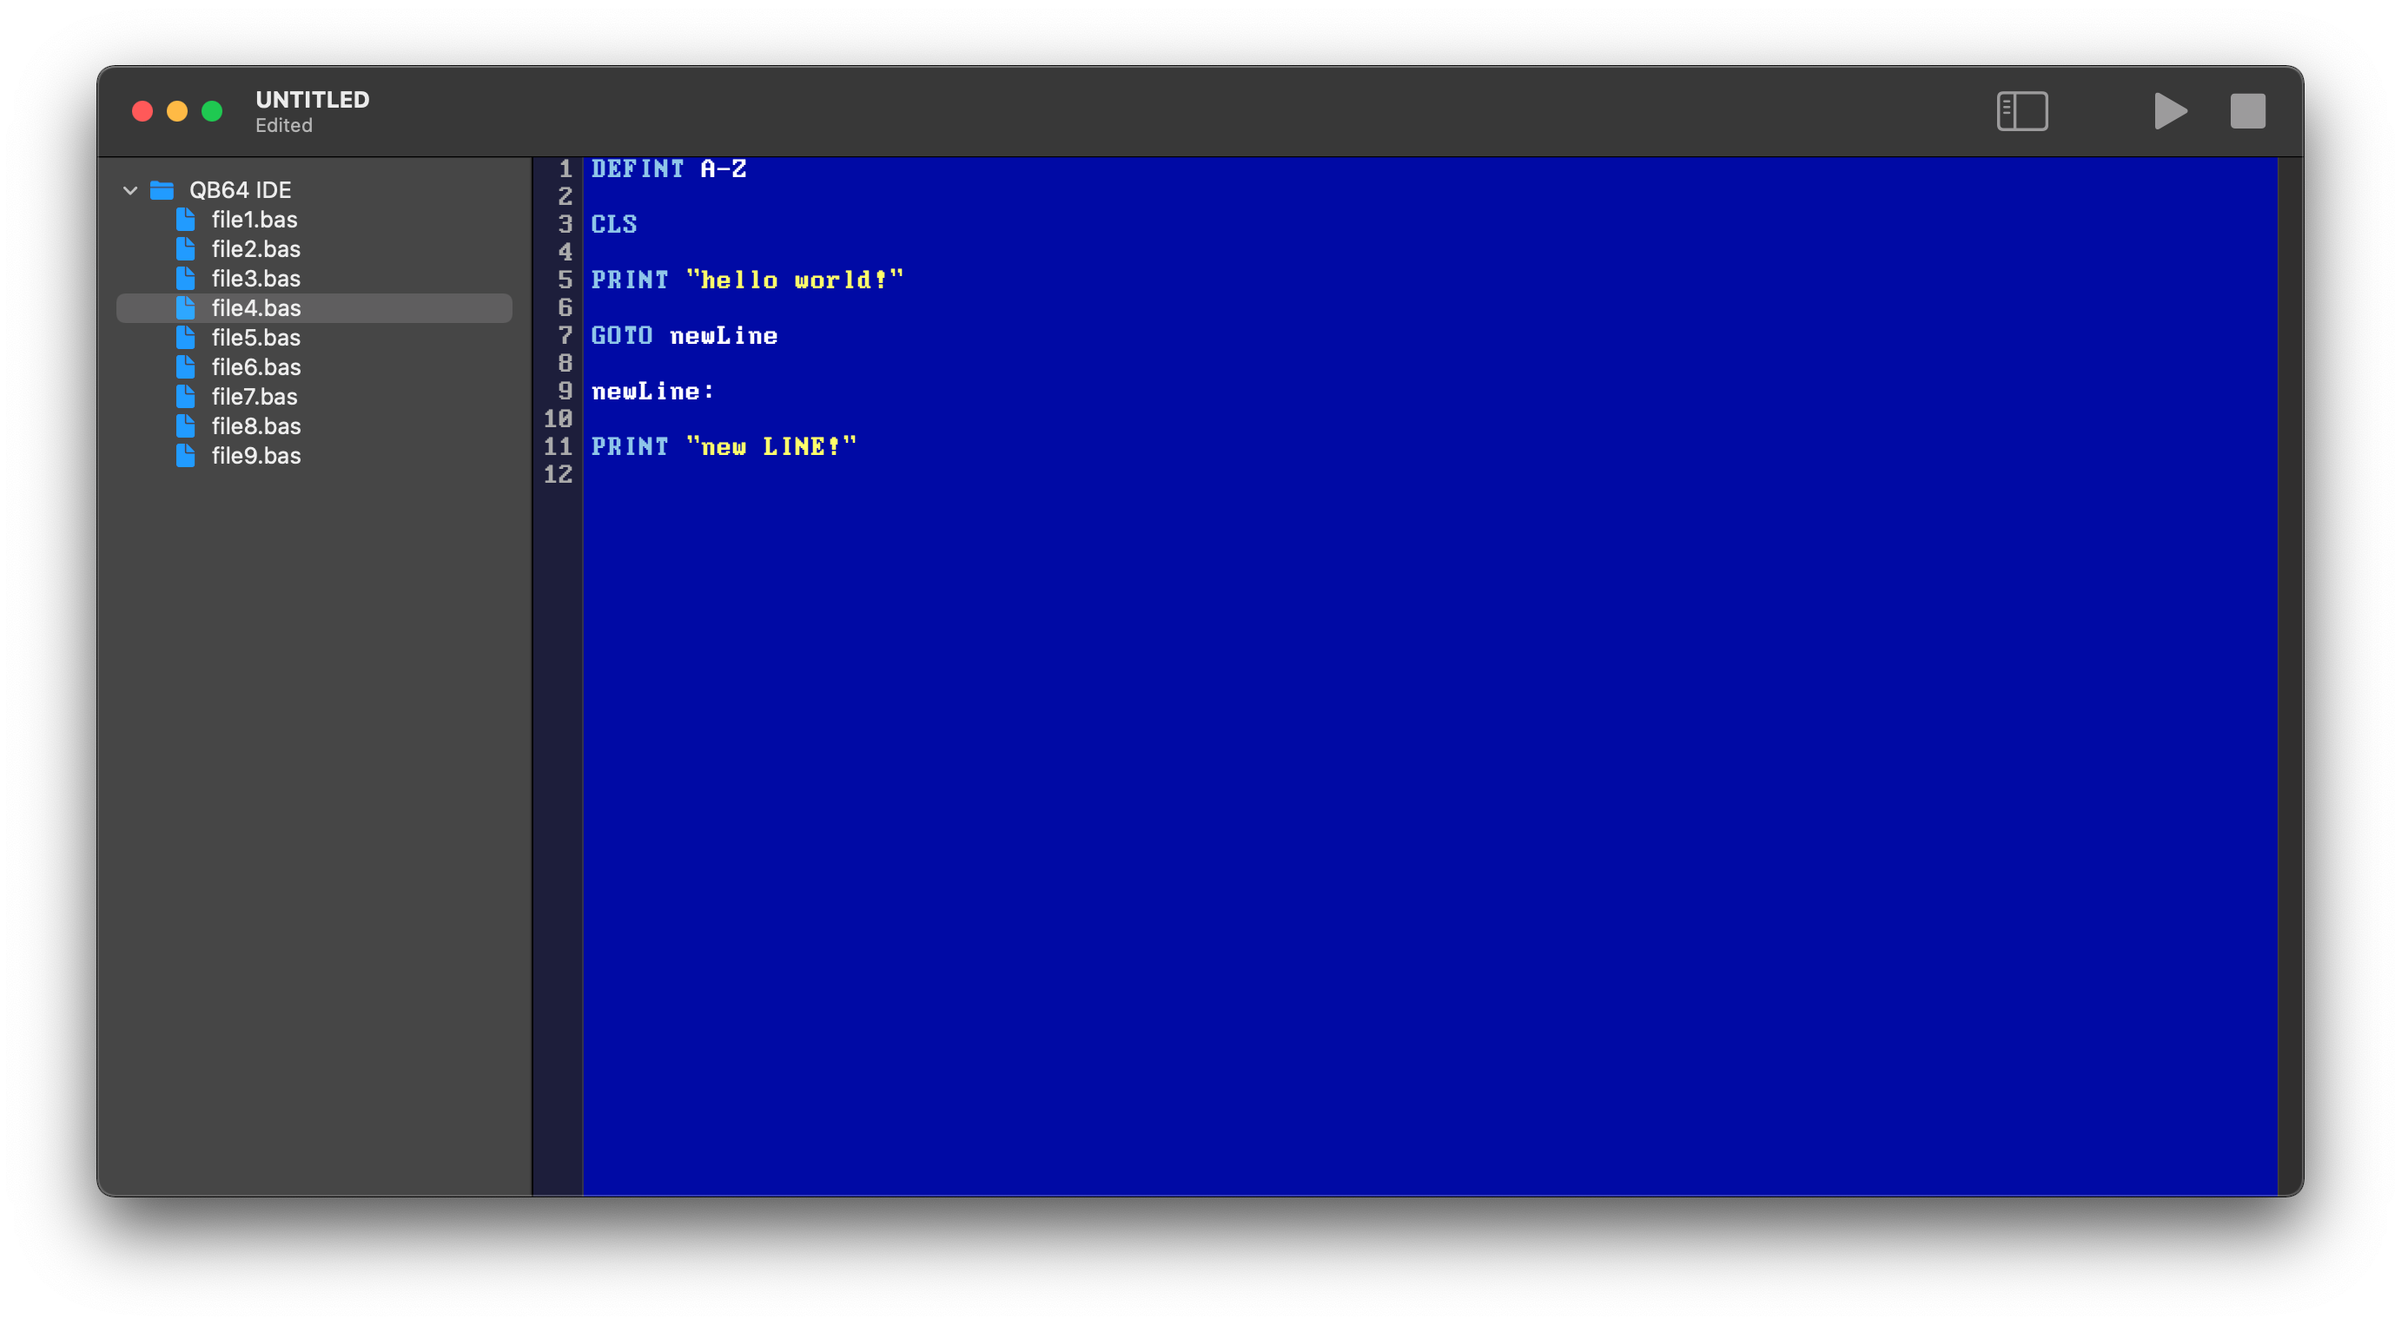
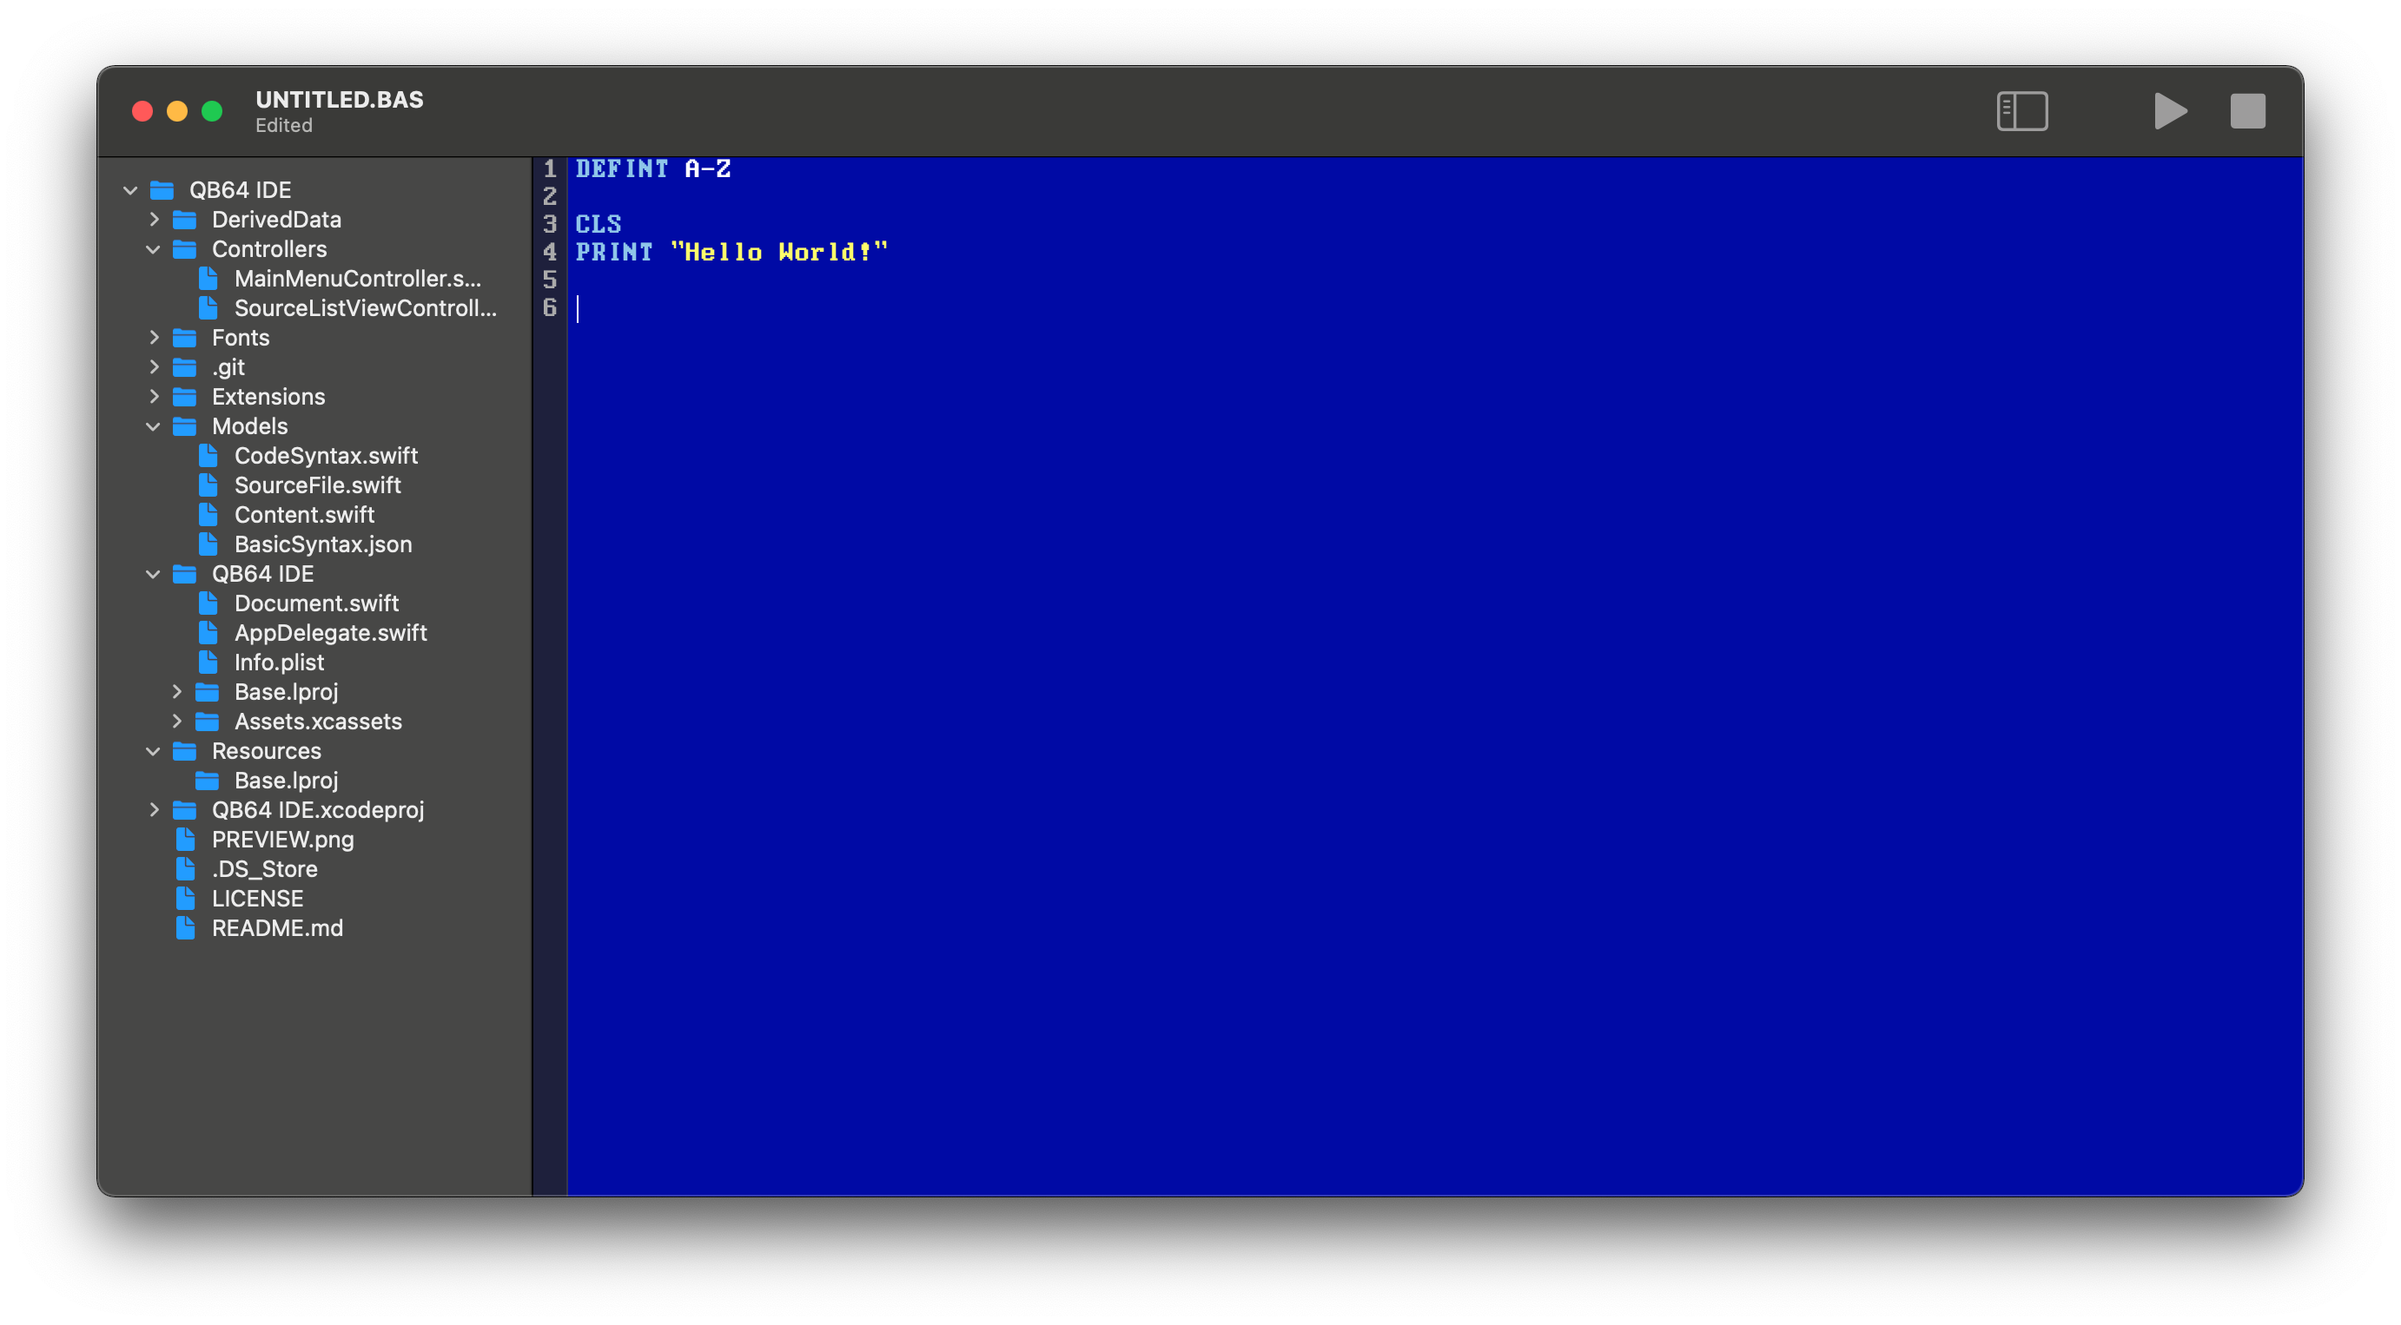
Load folder contents now. Improved way of code syntax coloring

Changed region(s): [[0.0311, 0.1232, 0.3734, 0.8932], [0.9334, 0.1232, 0.9645, 0.8932], [0.1556, 0.0616, 0.1867, 0.0924]]

diff --git a/Extensions/DocumentExtensions.swift b/Extensions/DocumentExtensions.swift
@@ -7,7 +7,7 @@
 import Cocoa
 import Foundation
 
-extension Document: NSTextStorageDelegate, NSWindowDelegate {
+extension Document: NSWindowDelegate, NSTextViewDelegate, NSTextStorageDelegate {
   
   // MARK: - Window Delegates
   func windowWillResize(_ sender: NSWindow, to frameSize: NSSize) -> NSSize {
@@ -24,45 +24,65 @@ extension Document: NSTextStorageDelegate, NSWindowDelegate {
     }
   }
   
-  // MARK: - TextStorage Delegates
-  func textStorage(_ textStorage: NSTextStorage, didProcessEditing editedMask: NSTextStorageEditActions, range editedRange: NSRange, changeInLength delta: Int) {
-    if delta != 0 && editedMask.rawValue > 1 {
-      guard let filepath = Bundle.main.path(forResource: "BasicSyntax", ofType: "json") else { return }
-      guard let contents = try? String(contentsOfFile: filepath).data(using: .utf8) else { return }
-      guard let syntax = try? JSONDecoder().decode(CodeSyntax.self, from: contents) else { return }
+  // MARK: - TextStorage & TextView Delegates
+  func textView(_ textView: NSTextView, shouldChangeTextIn affectedCharRange: NSRange, replacementString: String?) -> Bool {
+    if (replacementString == "\n") {
+      self.isApplyingStyles = true
       
-      var extended = NSUnionRange(editedRange, NSString(string: mainEditor.string).lineRange(for: NSMakeRange(editedRange.location, 0)))
-      extended = NSUnionRange(editedRange, NSString(string: mainEditor.string).lineRange(for: NSMakeRange(NSMaxRange(editedRange), 0)))
+      self.applyStyles(textView, affectedCharRange)
       
-      for setting in syntax.settings {
-        //-
-        let regex = try! NSRegularExpression.init(pattern: setting.exp, options: [.anchorsMatchLines, .caseInsensitive])
-        regex.enumerateMatches(in: textStorage.string, options: [], range: extended) { (match, flags, stop) in
-          //-
-          //- Define text attributes
-          let matchColor = [NSAttributedString.Key.foregroundColor : NSColor(hexString: setting.color)!]
-          //-
-          //- Identify where in document the match was found (index, length)
-          let matchRange = match!.range(at: 1)
-          applyStyles(textStorage, matchColor, matchRange, setting.upper)
-          //-
-          //- Now go and lookup for all other coincidences
-          let maxRange = matchRange.location + matchRange.length
-          if ((maxRange + 1) < textStorage.length) {
-            applyStyles(textStorage, matchColor, NSMakeRange(maxRange, 0), setting.upper)
-          }
-        }
-        //-
-      }
-      
-      if (isLoading) {
-        self.isLoading = false
-      } else {
-        self.updateChangeCount(.changeDone)
-      }
+      self.isApplyingStyles = false
     }
     
-    self.contents.contentString = textStorage.string
+    return true //- always true, so the text is printed in textview
+  }
+  
+  func textView(_ textView: NSTextView, doCommandBy commandSelector: Selector) -> Bool {
+    let arr:[Selector] = [#selector(NSStandardKeyBindingResponding.moveUp(_:)), #selector(NSStandardKeyBindingResponding.moveDown(_:))]
+    
+    if arr.firstIndex(of: commandSelector) != nil {
+      self.applyStyles(textView, NSRange(location: 0, length: textView.string.count))
+    }
+    
+    return false //- always false, so the cursor can change in text content
+  }
+  
+  func applyStyles(_ textView:NSTextView, _ range: NSRange) {
+    
+    var extended = NSUnionRange(range, NSString(string: mainEditor.string).lineRange(for: NSMakeRange(range.location, 0)))
+    extended = NSUnionRange(range, NSString(string: mainEditor.string).lineRange(for: NSMakeRange(NSMaxRange(range), 0)))
+    
+    for setting in self.syntaxs.settings {
+      //-
+      let regex = try! NSRegularExpression.init(pattern: setting.exp, options: [.anchorsMatchLines, .caseInsensitive])
+      regex.enumerateMatches(in: textView.string, options: [], range: extended) { (match, flags, stop) in
+        //-
+        //- Define text attributes
+        let matchColor = [NSAttributedString.Key.foregroundColor : NSColor(hexString: setting.color)!]
+        //-
+        //- Identify where in document the match was found (index, length)
+        let matchRange = match!.range(at: 1)
+        applyStyles(textView.textStorage!, matchColor, matchRange, setting.upper)
+        //-
+        //- Now go and lookup for all other coincidences
+        let maxRange = matchRange.location + matchRange.length
+        if ((maxRange + 1) < textView.textStorage!.length) {
+          applyStyles(textView.textStorage!, matchColor, NSMakeRange(maxRange, 0), setting.upper)
+        }
+      }
+      //-
+    }
+    
+    self.contents.contentString = textView.textStorage!.string
+    self.updateChangeCount(.changeDone) //- tell document/window that there is changes!
+  }
+  
+  func textStorage(_ textStorage: NSTextStorage, didProcessEditing editedMask: NSTextStorageEditActions, range editedRange: NSRange, changeInLength delta: Int) {
+    
+    if ((editedMask.rawValue < 3) && !self.isApplyingStyles) {
+      self.applyStyles(mainEditor, editedRange)
+    }
+    
   }
   
   private func applyStyles(_ textStorage: NSTextStorage, _ attrs: [NSAttributedString.Key : Any], _ range: NSRange, _ upper: Bool = false) {
@@ -74,7 +94,7 @@ extension Document: NSTextStorageDelegate, NSWindowDelegate {
   
   // MARK: - Actions
   @IBAction func btnRunClick(_ sender: Any) {
-    NSApp.sendAction(#selector(AppDelegate.runApp(_:)), to: nil, from: self)
+    NSApp.sendAction(#selector(AppDelegate.willRunApp(_:)), to: nil, from: self)
   }
   
   @IBAction func btnStopClick(_ sender: Any) {
@@ -116,7 +136,7 @@ extension Document: NSTextStorageDelegate, NSWindowDelegate {
     mainEditor.isAutomaticQuoteSubstitutionEnabled = false
     mainEditor.isAutomaticSpellingCorrectionEnabled = false
     
-    mainEditor.textStorage?.delegate = self
+    mainEditor.textStorage!.delegate = self
     
     let lines = String(contents.contentString.components(separatedBy: "\n").count) as NSString
     let size = lines.size(withAttributes: [NSAttributedString.Key.font: mainEditor.font!])

diff --git a/Controllers/SourceListViewController.swift b/Controllers/SourceListViewController.swift
@@ -9,25 +9,18 @@ import Foundation
 
 class SourceListViewController: NSObject, NSOutlineViewDelegate, NSOutlineViewDataSource {
   
-  var rootFolder: [BaseElement?];
+  var rootFolder: [SourceFile?];
   @IBOutlet weak var sourceListView:NSOutlineView?
   
   override init() {
-    let rootFolder = SourceFolder("/Users/familygw/Projects/QB64 IDE");
-    rootFolder.childs.append(SourceFile("/Users/familygw/Projects/QB64 IDE/file1.bas"))
-    rootFolder.childs.append(SourceFile("/Users/familygw/Projects/QB64 IDE/file2.bas"))
-    rootFolder.childs.append(SourceFile("/Users/familygw/Projects/QB64 IDE/file3.bas"))
-    rootFolder.childs.append(SourceFile("/Users/familygw/Projects/QB64 IDE/file4.bas"))
-    rootFolder.childs.append(SourceFile("/Users/familygw/Projects/QB64 IDE/file5.bas"))
-    rootFolder.childs.append(SourceFile("/Users/familygw/Projects/QB64 IDE/file6.bas"))
-    rootFolder.childs.append(SourceFile("/Users/familygw/Projects/QB64 IDE/file7.bas"))
-    rootFolder.childs.append(SourceFile("/Users/familygw/Projects/QB64 IDE/file8.bas"))
-    rootFolder.childs.append(SourceFile("/Users/familygw/Projects/QB64 IDE/file9.bas"))
+    self.rootFolder = [];
+  }
+  
+  @objc func loadDirectories(_ sender: Any?) {
+    // TODO: handle a better way to gent the folder content (lazy load?)
+    let folder = try! FileManager.default.url(for: .documentDirectory, in: .userDomainMask, appropriateFor: nil, create: false)
     
-    self.rootFolder = [rootFolder]
-    
-    self.sourceListView?.expandItem(nil, expandChildren: true)
-    
+    self.rootFolder = [SourceFile.buildNode(folder)]
     self.sourceListView?.reloadData()
   }
   
@@ -40,11 +33,11 @@ class SourceListViewController: NSObject, NSOutlineViewDelegate, NSOutlineViewDa
     }
     
     // Develop time (debug) - check that the item is really Item
-    assert(item is BaseElement);
+    assert(item is SourceFile);
     
     // item != nil
     // We're being asked for the number of children of an item
-    return (item as! BaseElement).childs.count
+    return (item as! SourceFile).childs.count
   }
   
   func outlineView(_ outlineView: NSOutlineView, child index: Int, ofItem item: Any?) -> Any {
@@ -55,23 +48,24 @@ class SourceListViewController: NSObject, NSOutlineViewDelegate, NSOutlineViewDa
     }
     
     // Develop time (debug) - check that the item is really Item
-    assert(item is BaseElement);
+    assert(item is SourceFile);
     
     // item != nil
     // We're being asked for n-th (index) child of an item
-    return (item as! BaseElement).childs[index]
+    return (item as! SourceFile).childs[index]
   }
   
   func outlineView(_ outlineView: NSOutlineView, isItemExpandable item: Any) -> Bool {
     // Item is expandable only if it has children
-    return (item as? BaseElement)?.childs.count ?? 0 > 0
+    return (item as? SourceFile)?.childs.count ?? 0 > 0
   }
   
   // MARK: - Delegates
   func outlineView(_ outlineView: NSOutlineView, viewFor tableColumn: NSTableColumn?, item: Any) -> NSView? {
     let cellView = outlineView.makeView(withIdentifier: NSUserInterfaceItemIdentifier("DataCell"), owner: self) as? NSTableCellView
-    cellView?.textField?.stringValue = (item as! BaseElement).name
-    cellView?.imageView?.image = (item as! BaseElement).icon
+    cellView?.textField?.stringValue = (item as! SourceFile).name
+    cellView?.imageView?.image = (item as! SourceFile).icon
+    cellView?.imageView?.image?.backgroundColor = NSColor(hexString: "#fff")!
 
     return cellView
   }

diff --git a/QB64 IDE/Document.swift b/QB64 IDE/Document.swift
@@ -9,13 +9,14 @@ import Cocoa
 import SwiftHEXColors
 
 class Document: NSDocument {
-
+  
   // MARK: - Protected vars
   var sideBarWidth: CGFloat = 250
   var sideBarVisible: Bool = true
+  var isApplyingStyles: Bool = false
   var contents: Content = Content("DEFINT A-Z\n")
-  var isLoading: Bool = false
-
+  var syntaxs: CodeSyntax
+  
   // MARK: - Private vars
   private var isRunning: Bool = false
   
@@ -23,9 +24,15 @@ class Document: NSDocument {
   @IBOutlet weak var mainEditor: NSTextView!
   @IBOutlet weak var splitView: NSSplitView!
   @IBOutlet weak var toolbar: NSToolbar!
+  @IBOutlet var sourceListViewController: SourceListViewController!
   
   //- MARK: -
   override init() {
+    let filepath = Bundle.main.path(forResource: "BasicSyntax", ofType: "json")
+    let contents = try! String(contentsOfFile: filepath!).data(using: .utf8)
+    
+    self.syntaxs = try! JSONDecoder().decode(CodeSyntax.self, from: contents!)
+
     super.init()
   }
   
@@ -48,10 +55,7 @@ class Document: NSDocument {
     self.displayName = self.displayName.uppercased()
     
     self.initiateEditor()
-  }
-  
-  override func makeWindowControllers() {
-    super.makeWindowControllers()
+    NSApp.sendAction(#selector(SourceListViewController.loadDirectories(_:)), to: self.sourceListViewController, from: self)
   }
   
   /** method called when information is going to be saved  */
@@ -62,7 +66,6 @@ class Document: NSDocument {
   /** method called when information is to being loaded */
   override func read(from data: Data, ofType typeName: String) throws {
     contents.read(data)
-    isLoading = true
   }
   
 }

diff --git a/Models/SourceFile.swift b/Models/SourceFile.swift
@@ -7,30 +7,47 @@
 
 import Cocoa
 
-class BaseElement: NSObject {
+class SourceFile: NSObject {
   let name: String
   let path: String
   var icon: NSImage?
-  var childs: [BaseElement] = []
+  var isFolder: Bool
+  var childs: [SourceFile] = []
   
   init(_ fileName: String) {
     self.name = (fileName as NSString).lastPathComponent
     self.path = fileName
+    self.isFolder = true
+
+    super.init()
+    self.actAsFolder()
   }
-}
-
-class SourceFile: BaseElement {
-  override init(_ fileName: String) {
-    super.init(fileName);
-
-    self.icon = NSImage(systemSymbolName: "doc.fill", accessibilityDescription: nil)
-  }
-}
-
-class SourceFolder: BaseElement {
-  override init(_ fileName: String) {
-    super.init(fileName);
-
+  
+  func actAsFolder() -> Void {
     self.icon = NSImage(systemSymbolName: "folder.fill", accessibilityDescription: nil)
+    self.isFolder = true
+  }
+  
+  func actAsFile() -> Void {
+    self.icon = NSImage(systemSymbolName: "doc.fill", accessibilityDescription: nil)
+    self.isFolder = false
+  }
+  
+  class func buildNode(_ url: URL) -> SourceFile {
+    let node = SourceFile(url.path)
+    if (url.hasDirectoryPath) {
+      var files = try! FileManager.default.contentsOfDirectory(at: url, includingPropertiesForKeys: nil)
+      files.sort(by: {(_ a: URL, _ b: URL) in return (a.hasDirectoryPath || b.hasDirectoryPath) })
+
+      for file in files {
+        node.childs.append(SourceFile.buildNode(file))
+      }
+      
+      node.actAsFolder()
+    } else {
+      node.actAsFile()
+    }
+    return node
+    
   }
 }

diff --git a/QB64 IDE/AppDelegate.swift b/QB64 IDE/AppDelegate.swift
@@ -21,13 +21,20 @@ class AppDelegate: NSObject, NSApplicationDelegate {
   func applicationShouldTerminate(_ sender: NSApplication)-> NSApplication.TerminateReply {
     return .terminateNow
   }
-   
-  @objc func runApp(_ sender: Any) {
+  
+  @objc func willRunApp(_ sender: Any) {
     if let doc = NSApp.orderedDocuments.first as? Document {
-      doc.save(self)
-      print("RUN APP!!!")
+      doc.save(withDelegate: self, didSave: #selector(AppDelegate.didRunApp(_:_:)), contextInfo: nil)
     }
   }
-
+  
+  @objc func didRunApp(_ sender: Any, _ didSave: Bool) {
+    if (!didSave) {
+      NSAlert.showAlert(title: "Error", message: "You must save the file before try to run the program.", style: .warning, asSheet: true)
+    } else {
+      print("RUN APP!!! \(didSave)")
+    }
+  }
+  
 }
 

diff --git a/Extensions/Common.swift b/Extensions/Common.swift
@@ -1,0 +1,34 @@
+//
+//  File.swift
+//  QB64 IDE
+//
+//  Created by Carlos A. Leguizamón on 12/12/2020.
+//
+
+import Cocoa
+import Foundation
+
+extension NSAlert {
+  
+  static func showAlert(title: String?, message: String?, style: Style = .informational, asSheet: Bool = false) -> Void {
+    let alert = NSAlert()
+    
+    if let title = title {
+      alert.messageText = title
+    }
+    
+    if let message = message {
+      alert.informativeText = message
+    }
+    alert.alertStyle = style
+    
+    alert.addButton(withTitle: "OK")
+
+    if (asSheet) {
+      alert.beginSheetModal(for: (NSApplication.shared.orderedDocuments.first?.windowForSheet)!, completionHandler: nil)
+    } else {
+      alert.runModal()
+    }
+  }
+  
+}

diff --git a/Controllers/MainMenuController.swift b/Controllers/MainMenuController.swift
@@ -10,7 +10,7 @@ import Foundation
 class MainMenuController : NSViewController, NSMenuDelegate {
   
   @IBAction func mnuRunApp(_ sender: Any) {
-    NSApp.sendAction(#selector(AppDelegate.runApp(_:)), to: nil, from: self)
+    NSApp.sendAction(#selector(AppDelegate.willRunApp(_:)), to: nil, from: self)
   }
   
 }
